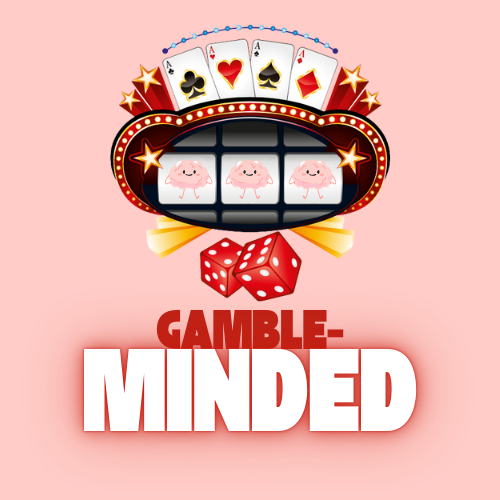
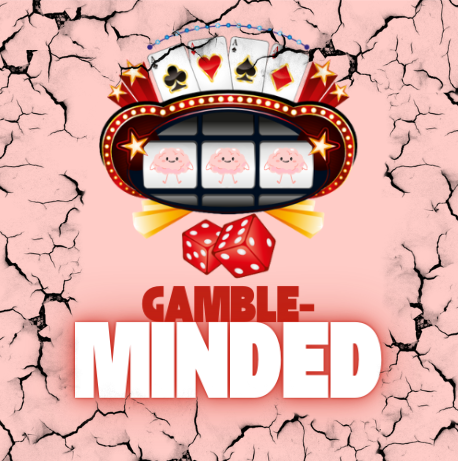
Styles by Jazmin

diff --git a/src/Styles/slotmachine.css b/src/Styles/slotmachine.css
@@ -4,7 +4,7 @@
     align-items: center; /* Center align the content */
     gap: 20px; /* Add spacing between instructions and slot machines */
     padding: 20px;
-    background: #000;
+    background: #262626;
     min-height: 84vh; /* Ensure the wrapper takes up at least the full viewport height */
 }
 
@@ -24,7 +24,6 @@
     color: #ccc; 
     margin-bottom: 20px; /* Space below the instructions */
     text-align: center; /* Center align the text */
-    text-shadow: 0 0 10px rgb(207, 207, 31), 0 0 20px rgb(207, 207, 31); /* Text shadow for glow effect */
     margin-bottom: 20px; /* Space below the instructions */
 }
 
@@ -35,7 +34,7 @@
     align-items: flex-start;
     gap: 20px;
     padding: 20px;
-    background: #000;
+    background: #262626;
 }
 /* Individual slot machine container */
 .slot-machine-container {
@@ -141,10 +140,9 @@
 
 .question {
     font-size: 1.2rem; /* Font size for instructions */
-    color: rgb(207, 207, 31); 
+    color: #ccc; 
     margin-bottom: 20px; /* Space below the instructions */
     text-align: center; /* Center align the text */
-    text-shadow: 0 0 10px rgb(207, 207, 31), 0 0 20px rgb(207, 207, 31); /* Text shadow for glow effect */
     margin-bottom: 20px; /* Space below the instructions */
 }
 
@@ -160,10 +158,10 @@
 .feedback-buttons button {
     padding: 10px 20px;
     font-size: 1.2rem;
-    color: rgb(207, 207, 31);
+    font-family: Squada One;
+    color: #ccc;
     font-weight: bold;
-    text-shadow: 0 0 10px rgb(207, 207, 31), 0 0 20px rgb(207, 207, 31);
-    background: red;
+    background: #000;
     border: none;
     border-radius: 5px;
     cursor: pointer;
@@ -180,7 +178,7 @@
     background: rgba(0, 0, 0, 0.5);
     padding: 15px;
     font-size: 1.2rem;
-    color: white;
+    color: #ccc;
     border-radius: 5px;
     margin-top: 20px; /* Add spacing above the feedback message */
     text-align: center; /* Center align the feedback text */

diff --git a/src/Components/SlotMachine.jsx b/src/Components/SlotMachine.jsx
@@ -204,19 +204,32 @@ const SlotMachine = () => {
             </div>
 
             {/* Question and Feedback */}
-            {showQuestion && (
-                <div className="question">
-                    <h3>Which slot machine do you choose?</h3>
-                    <div className="feedback-buttons">
-                        <button onClick={() => handleChoice("3x3")}>3x3 Slot Machine</button>
-                        <button onClick={() => handleChoice("5x3")}>5x3 Slot Machine</button>
-                    </div>
+        {showQuestion && (
+            <div className="question">
+                <h3>Which slot machine do you choose?</h3>
+                <div className="feedback-buttons">
+                    <button onClick={() => handleChoice("3x3")}>3x3 Slot Machine</button>
+                    <button onClick={() => handleChoice("5x3")}>5x3 Slot Machine</button>
                 </div>
-            )}
+            </div>
+        )}
 
-            {feedback && <div className="feedback-message">{feedback}</div>}
-        </div>
+        {feedback && 
+            <div className="feedback-message">
+                <p>{feedback}</p>
+                <div className="pro-tip">
+                    <h3>💡Pro Tip:💡</h3>
+                    {feedback.includes("3x3") ? (
+                        <p>Keep in mind that slot machines are based on pure luck, even though it seems like you are close to hitting big the odds of winning still remain relatively small.</p>
+                    ) : (
+                        <p>Keep in mind that slot machines are based on pure luck, even though it seems like you are close to hitting big the odds of winning still remain relatively small.</p>
+                    )}
+                </div>
+            </div>
+        }
+    </div>
     );
 };
+
 
 export default SlotMachine;

diff --git a/src/Styles/about.css b/src/Styles/about.css
@@ -1,9 +1,9 @@
 .about-container {
     display: flex;
     justify-content: space-between;
+    background-color: #262626;
     align-items: center;
     padding: 40px;
-    max-width: 1100px;
     margin: auto;
     min-height: 84vh;
   }
@@ -16,14 +16,16 @@
   .text-section h1 {
     font-size: 2.5rem;
     font-weight: bold;
-    color: #c22014;
+    color: #f3cec9;
+    text-shadow: 0 0 30px #a83224;
+    border-radius: 10px;
   }
   
   .text-section p {
     font-size: 1.2rem;
     line-height: 1.6;
     text-align: justify;
-    color: black;
+    color: #ccc;
   }
   
   .image-section {
@@ -31,12 +33,12 @@
     display: flex;
     justify-content: center;
     align-items: center;
-    background-color: #ffd6d6;
-    padding: 20px;
     border-radius: 10px;
   }
   
   .image-section img {
     max-width: 100%;
     height: auto;
+    border-radius: 10px;
+    box-shadow: 0 0 15px rgba(255, 214, 214, 0.7); /* Subtle shadow for blending */
   }

diff --git a/src/Styles/biases.css b/src/Styles/biases.css
@@ -16,9 +16,8 @@
     left: 0;
     width: 100%;
     height: 100%;
-    background: url("../Visuals/brains.png") repeat;
-    background-size: 200px 200px; /* Adjust tile size */
-    opacity: 0.4; /* Adjust opacity here */
+    background-image: url("../Visuals/about.jpg");
+    background-size: 1300px 1100px; /* Adjust tile size */
     z-index: -1; /* Place behind content */
 }
 
@@ -26,7 +25,7 @@
     font-size: 2rem;
     margin-bottom: 20px;
     font-weight: bold;
-    color: black
+    color: #ccc;
 }
 
 .bias-grid {

diff --git a/src/Styles/CoinFlipSimulator.css b/src/Styles/CoinFlipSimulator.css
@@ -3,7 +3,6 @@
     background: rgba(0, 0, 0, 0.85);
     color: white;
     padding: 20px;
-    border-radius: 10px;
     max-width: 100%;
     margin: auto;
     box-shadow: 0px 4px 10px rgba(255, 255, 255, 0.1);
@@ -50,7 +49,7 @@
 
 h2 {
     font-size: 28px;
-    color: #ffcc00;
+    color: #ccc;
     margin-bottom: 15px;
 }
 

diff --git a/src/Styles/prospect.css b/src/Styles/prospect.css
@@ -2,7 +2,6 @@
 .prospect-container {
     background-color: #262626;
     padding: 10px;
-    border-radius: 10px;
     min-height: 100vh; /* Use min-height: 100vh instead of min-height: 100% */
     display: flex;
     flex-direction: column;

diff --git a/src/Styles/ostrich.css b/src/Styles/ostrich.css
@@ -3,7 +3,6 @@
     background-color: #262626;
     text-align: center;
     padding: 20px;
-    border-radius: 10px;
     width: 100%;
     min-height: 84vh;
     display: flex;
